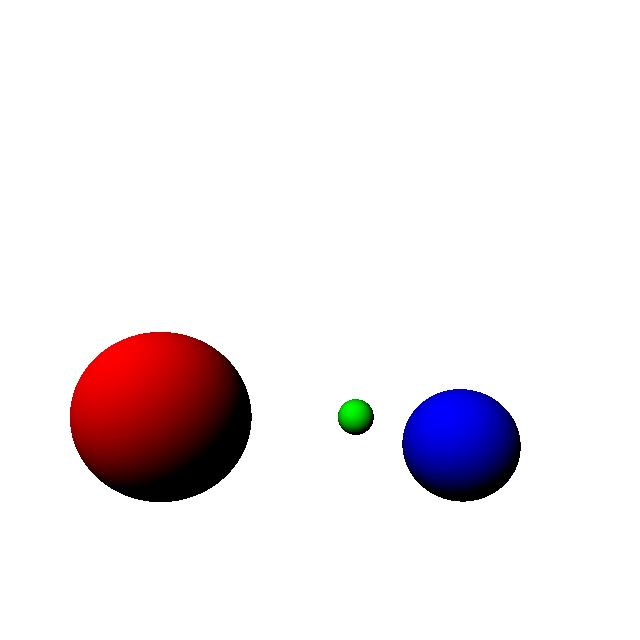
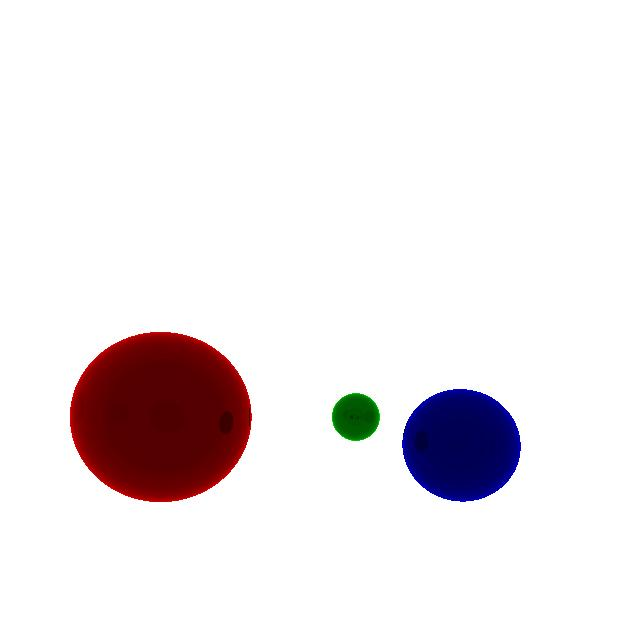
First stab at reflectivity; needs a lot of cleaning.

Changed region(s): [[0.0938, 0.5, 0.4062, 0.7812], [0.625, 0.5938, 0.8125, 0.7812], [0.5, 0.5938, 0.5938, 0.6875]]

diff --git a/graphics/rendering.go b/graphics/rendering.go
@@ -7,7 +7,7 @@ import (
 )
 
 const MaxDepth = 3     // The maximum depth for trace recursion
-const LightBias = 1e-4 // suitable small directional bias for light calculations
+const LightBias = 1e-4 // suitable small directional bias for lighting calculations
 
 // Ray-traces an RGBA image of the given dimensions using the given scene configuration
 func (scene *Scene) RayTraceToImage(dimensions image.Rectangle) (*image.RGBA) {
@@ -57,7 +57,7 @@ func (scene *Scene) RayTraceToImage(dimensions image.Rectangle) (*image.RGBA) {
 
 // Recursively traces a ray from the given the scene and computes it's resultant color
 func (scene *Scene) trace(ray Ray, depth int, maxDepth int) (Vector) {
-	// determines the closest object to the ray origin and computes the intersect hit and normal
+	// determines the closest object to the ray origin and computes the intersect hit and a
 	findIntersectingObject := func(ray Ray) (result Object, hit, normal Vector) {
 		nearest := math.MaxFloat64 // the nearest intersection
 
@@ -74,7 +74,7 @@ func (scene *Scene) trace(ray Ray, depth int, maxDepth int) (Vector) {
 		}
 
 		if result != nil {
-			// calculate hit and normal vectors
+			// calculate hit and a vectors
 			hit = ray.Origin.Add(ray.Position(nearest))
 			normal = hit.Sub(result.GetPosition()).Normalize()
 		}
@@ -91,29 +91,68 @@ func (scene *Scene) trace(ray Ray, depth int, maxDepth int) (Vector) {
 	material := object.GetMaterial()
 	sampledColor := V(0, 0, 0) // the resultant color
 
-	// compute reflection/refraction up to a certain depth
-	if material.Transparency > 0 || material.Reflectivity > 0 && depth < maxDepth {
-		panic("Not yet implemented")
-	}
-
-	// compute diffuse illumination, accounting for light sources and shadows
-	for _, light := range scene.Lights {
-		// project a ray from the hit point, accounting for a small bias in direction, toward
-		// the light position; we then determine whether another object occludes the light source and
-		// project a shadow if it does
-		transmission := V(1, 1, 1)
-		lightRay := R(hit.Add(normal.MulS(LightBias)), light.Position.Sub(hit))
-
-		for _, other := range scene.Objects {
-			distance := math.MaxFloat64
-
-			if other.Intersects(lightRay, &distance) {
-				transmission = V(0, 0, 0)
-				break
-			}
+	// compute reflection/refraction illumination up to a certain depth
+	if (material.Transparency > 0 || material.Reflectivity > 0) && depth < maxDepth {
+		// computes the fresnel lens effect for reflective/transparent surfaces;
+		// see https://en.wikipedia.org/wiki/Fresnel_lens
+		mix := func(a, b, mix float64) float64 {
+			return b*mix + a*(1-mix)
 		}
 
-		sampledColor = sampledColor.Add(material.Diffuse).Mul(transmission).MulS(math.Max(0, normal.Dot(lightRay.Direction))).Mul(light.Emission)
+		inside := false
+		if ray.Direction.Dot(normal) > 0 {
+			normal = normal.MulS(-1)
+			inside = true
+		}
+
+		facingRatio := -ray.Direction.Dot(normal)
+		fresnel := mix(math.Pow(1-facingRatio, 3), 1, 0.1)
+
+		// compute reflective color
+		reflectionDir := ray.Direction.Sub(normal.MulS(2).MulS(ray.Direction.Dot(normal)))
+		reflectionRay := R(hit.Add(normal.MulS(LightBias)), reflectionDir)
+		reflectionColor := scene.trace(reflectionRay, depth+1, maxDepth)
+
+		// compute refractive color
+		refractionColor := V(0, 0, 0)
+		if material.Transparency > 0 {
+			ior := 1.1
+			eta := ior
+			if !inside {
+				eta = 1 / ior
+			}
+			cosi := -normal.Dot(ray.Direction)
+			k := 1 - eta*eta*(1-cosi*cosi)
+
+			refractionDir := ray.Direction.MulS(eta).Add(normal.MulS(eta*cosi - math.Sqrt(k)))
+			refractionRay := R(hit.Sub(normal.MulS(LightBias)), refractionDir)
+			refractionColor = scene.trace(refractionRay, depth+1, maxDepth)
+		}
+
+		reflectiveColor := reflectionColor.MulS(fresnel)
+		refractiveColor := refractionColor.MulS(1 - fresnel).MulS(material.Transparency)
+
+		sampledColor = (reflectiveColor.Add(refractiveColor)).Mul(material.Diffuse)
+	} else {
+		// compute diffuse illumination, accounting for light sources and shadows
+		for _, light := range scene.Lights {
+			// project a ray from the hit point, accounting for a small bias in direction, toward
+			// the light position; we then determine whether another object occludes the light source and
+			// project a shadow if it does
+			transmission := V(1, 1, 1)
+			lightRay := R(hit.Add(normal.MulS(LightBias)), light.Position.Sub(hit))
+
+			for _, other := range scene.Objects {
+				distance := math.MaxFloat64
+
+				if other.Intersects(lightRay, &distance) {
+					transmission = V(0, 0, 0)
+					break
+				}
+			}
+
+			sampledColor = sampledColor.Add(material.Diffuse).Mul(transmission).MulS(math.Max(0, normal.Dot(lightRay.Direction))).Mul(light.Emission)
+		}
 	}
 
 	return sampledColor

diff --git a/main.go b/main.go
@@ -29,13 +29,17 @@ func main() {
 				Radius: 2,
 				Material: Material{
 					Diffuse:      V(0, 0, 1),
+					Reflectivity: 1.0,
+					Transparency: 0.5,
 				},
 			},
 			&Sphere{
 				Center: V(3.0, 0, -35),
-				Radius: 1.5,
+				Radius: 2,
 				Material: Material{
 					Diffuse:      V(0, 1, 0),
+					Reflectivity: 1.0,
+					Transparency: 0.5,
 				},
 			},
 			&Sphere{
@@ -43,6 +47,8 @@ func main() {
 				Radius: 3,
 				Material: Material{
 					Diffuse:      V(1, 0, 0),
+					Reflectivity: 1.0,
+					Transparency: 0.5,
 				},
 			},
 		},
